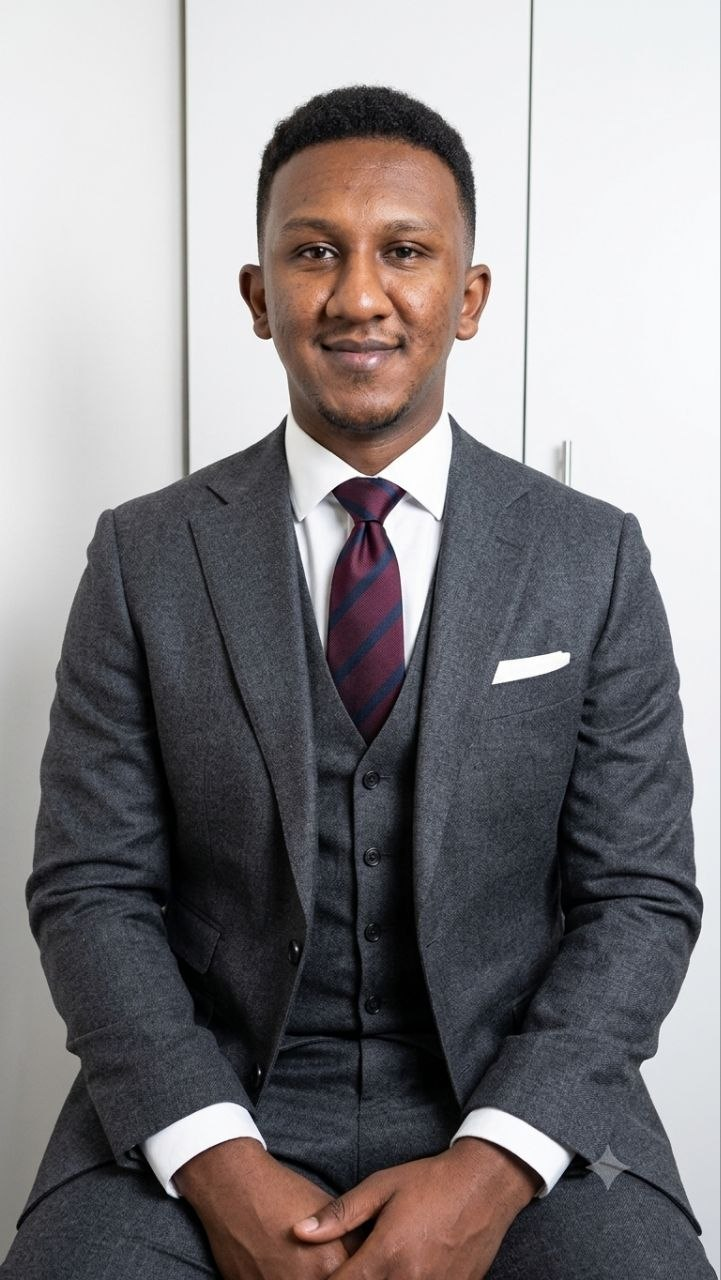
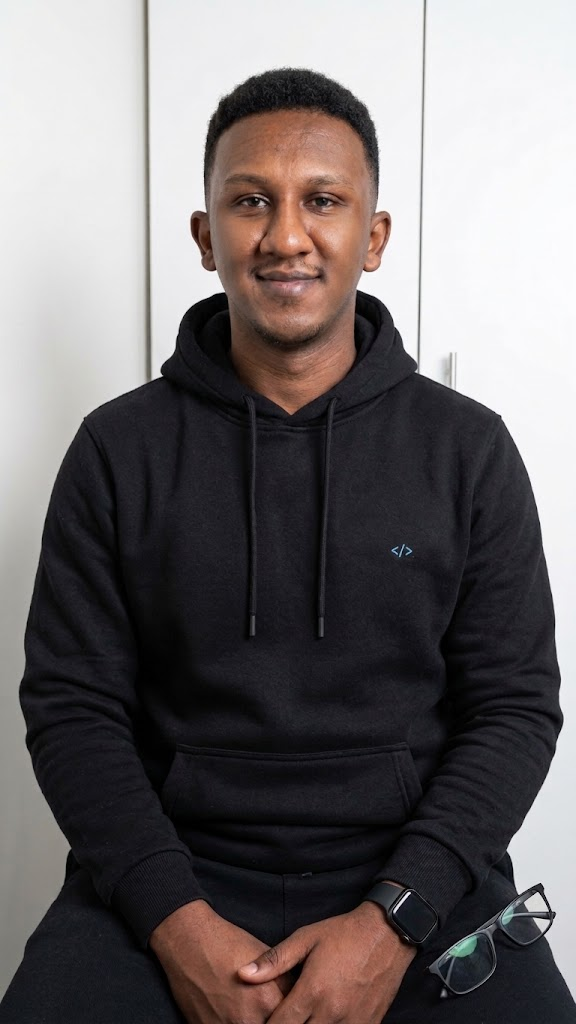
fix(client): add cache-busting query parameter to team photo

diff --git a/client/src/components/AboutHeroSection.jsx b/client/src/components/AboutHeroSection.jsx
@@ -1,0 +1,47 @@
+import React from 'react';
+import { useTheme } from '../context/ThemeContext';
+import { Sparkles, Users } from 'lucide-react';
+
+export default function AboutHeroSection() {
+  const { activeTheme } = useTheme?.() || {
+    bgCard: '#0f172a',
+    border: 'rgba(255, 255, 255, 0.1)',
+    primary: '#38bdf8',
+    accent: '#f59e0b',
+    textMain: '#ffffff',
+    textMuted: '#94a3b8'
+  };
+
+  return (
+    <section className="about-hero-section" style={{ position: 'relative', width: '100%', margin: '0 auto' }}>
+      <div
+        style={{
+          maxWidth: '850px',
+          margin: '0 auto 30px auto',
+          borderRadius: '16px',
+          overflow: 'hidden',
+          border: `2px solid ${activeTheme.border || 'rgba(255, 255, 255, 0.1)'}`,
+          boxShadow: '0 15px 35px rgba(0, 0, 0, 0.5)',
+          aspectRatio: '16 / 9',
+          background: '#0b1622',
+          position: 'relative'
+        }}
+      >
+        <img
+          src="/assets/team/team.jpg?v=2"
+          alt="المكتب التنفيذي لرابطة الطلاب السودانيين"
+          loading="lazy"
+          decoding="async"
+          width="850"
+          height="478"
+          style={{
+            width: '100%',
+            height: '100%',
+            display: 'block',
+            objectFit: 'cover'
+          }}
+        />
+      </div>
+    </section>
+  );
+}

diff --git a/client/src/pages/Home.jsx b/client/src/pages/Home.jsx
@@ -236,7 +236,7 @@ export default function Home() {
             }}
           >
             <img
-              src={teamImg}
+              src="/assets/team/team.jpg?v=2"
               alt="المكتب التنفيذي لرابطة الطلاب السودانيين"
               loading="lazy"
               decoding="async"
